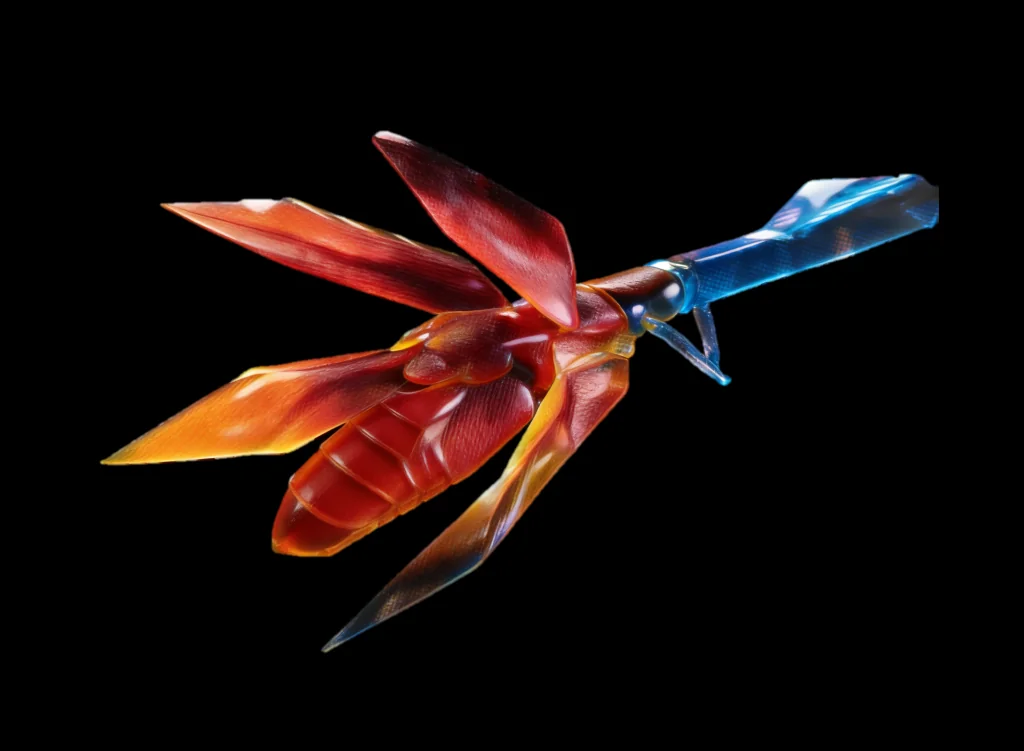
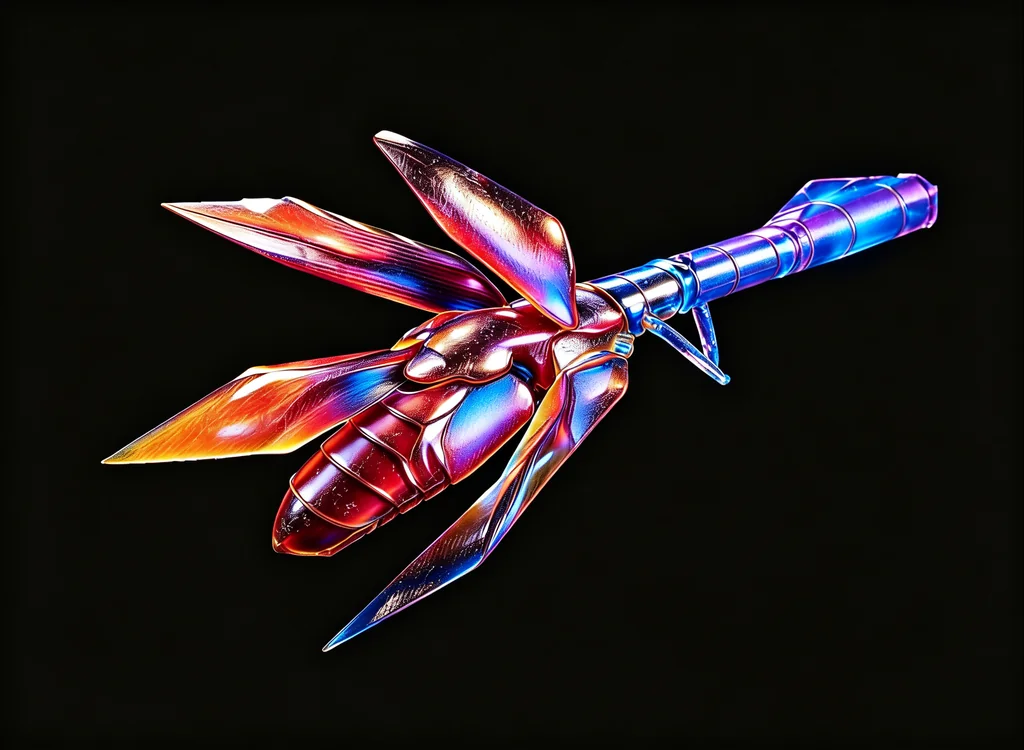
Refresh item HD artwork and fix Combo generation on Windows

Changed region(s): [[0.0938, 0.1533, 0.9375, 0.8893]]

diff --git a/docs/ITEM_CATALOG.md b/docs/ITEM_CATALOG.md
@@ -14,7 +14,7 @@ The catalog lives at `/data/items.html`, with one detail page per item at
 The snapshot contains 1,045 entries: 419 weapons, 88 frames, 107 barriers, 100
 units, 84 Mags and 247 other items. The list retains Wiki images for 547 entries,
 drawn from 478 PNG files totaling about 4.9 MB. Detail pages additionally offer
-HD images for 410 entries; 44 previously had no Wiki image, bringing detail image
+HD images for 411 entries; 44 previously had no Wiki image, bringing detail image
 coverage to 591 entries. The snapshot was taken on 2026-09-14;
 the cosmetic item pages and 21 excerpt fixes were re-merged on 2026-09-15 at
 unchanged Wiki revisions, and those records carry their own check date.
@@ -125,11 +125,12 @@ as separate models.
 ### HD detail images and naming (updated 2026-09-19)
 
 `content/item-catalog/hd-gallery.json` accounts for 607 source images: the original
-606-image 高清图库 collection and one subsequently supplied SOF image.
-SHA-256 comparison reduces these to 553 unique assets; all
-original relative filenames, dimensions, sizes and checksums are retained.
-The detail generator consumes only verified direct `itemIds`: 404 optimized
-images cover 410 details. The `hdImage` field is emitted only in per-item detail
+606-image 高清图库 collection with four images replaced by the supplied 替换.zip
+artwork, plus one subsequently supplied SOF image. SHA-256 comparison reduces
+these to 553 unique assets; the manifest records the current source paths,
+dimensions, sizes and checksums.
+The detail generator consumes only verified direct `itemIds`: 405 optimized
+images cover 411 details. The `hdImage` field is emitted only in per-item detail
 data, leaving the searchable list's image paths and image-only filter unchanged.
 Details default to HD when available and offer HD / Wiki buttons when both images
 exist. The displayed source and full-size image link follow the selected image.
@@ -161,8 +162,8 @@ the skin directory, and are grouped as Twin Chakram color variants. TypeDS and
 TypeGU also contain exact aliases. Paired weapons are model variants, not mere
 color changes. Different files are not merged just because they look similar.
 
-Twenty-two assets remain unresolved: 12 numbered armor effects, five shield
-images, the unqualified named AGITO image, and four TYPE model images. They have
+Twenty-one assets remain unresolved: 12 numbered armor effects, five shield
+images, the unqualified named AGITO image, and three TYPE model images. They have
 source-derived names under `unresolved/`, no item bindings, and explicit reasons
 and candidates where available. Do not promote these candidates to item names.
 Armor effect descriptions alone cannot securely bind an unlabeled screenshot;
@@ -178,10 +179,26 @@ the destination must be separate and empty. This checks every original hash
 before creating images and records each output's size and SHA-256 alongside the
 exact naming manifest in the prepared `manifest.json`. The generated review
 folder is ignored by Git and is outside the site's published asset directories.
-For a full regeneration, assemble a source directory containing the original
-collection plus the supplied PNG at the exact `SUPPLIED/` path above. The
-inventory check requires all 607 sources; the original collection alone is
-no longer the complete input.
+For a full regeneration, assemble a separate working copy of the original
+collection and add the supplied SOF PNG at the exact `SUPPLIED/` path above.
+In that working copy, remove the four old files listed below and extract their
+replacements from `替换.zip` into a `替换/` subdirectory. Keep the original archive
+and original collection unchanged.
+
+| Remove old source from working copy | Add replacement source | Detail item |
+| --- | --- | --- |
+| `WEAPON/EP1+2/136.png` | `替换/136.png` | Red Dagger |
+| `WEAPON/EP4/234.png` | `替换/234.png` | Vivienne |
+| `WEAPON/EP1+2/GIGUE BAZOOKA.png` | `替换/GIGUE BAZOOKA.png` | Gi Gue Bazooka |
+| `WEAPON/TYPE WEAPON/SWORDS.png` | `替换/SWORDS.png` | TypeSS/Swords |
+
+The maintainer confirmed the TypeSS/Swords identity on 2026-09-19, enabling its
+previously unbound HD detail image. The other three images replace existing HD
+images. All four replacement PNGs are 5444 × 3989; the published WebPs are
+1024 × 750. The inventory check requires exactly 607 sources, including these
+replacements and the SOF image. Leaving the four old files in the working copy
+or omitting the replacements will fail the inventory check. Pass this assembled
+working copy as the source directory in the commands below.
 
 ```sh
 node scripts/prepare_hd_gallery.mjs --check /path/to/高清图库

diff --git a/docs/ARCHITECTURE.md b/docs/ARCHITECTURE.md
@@ -311,7 +311,11 @@ including where the page's threshold wording differs from the Wiki summary.
 
 Build-input JavaScript datasets are never copied to `_site`. Generators evaluate
 or normalize them into Angular modules. The PSOStats Combo snapshot remains an
-audited upstream boundary. The character simulator is Haven-owned TypeScript:
+audited upstream boundary. Its Angular generator normalizes source line endings
+in memory and requires each parameter transformation to match exactly once.
+`scripts/test_generate_angular_combo.mjs`, included in `npm test`, verifies
+equivalent LF/CRLF output and rejection of changed source signatures.
+The character simulator is Haven-owned TypeScript:
 `status-domain.ts` is a pure calculation module and `item-data.js` is an immutable
 catalog behind an explicit TypeScript declaration. Neither depends on the DOM or
 an obsolete browser runtime.
